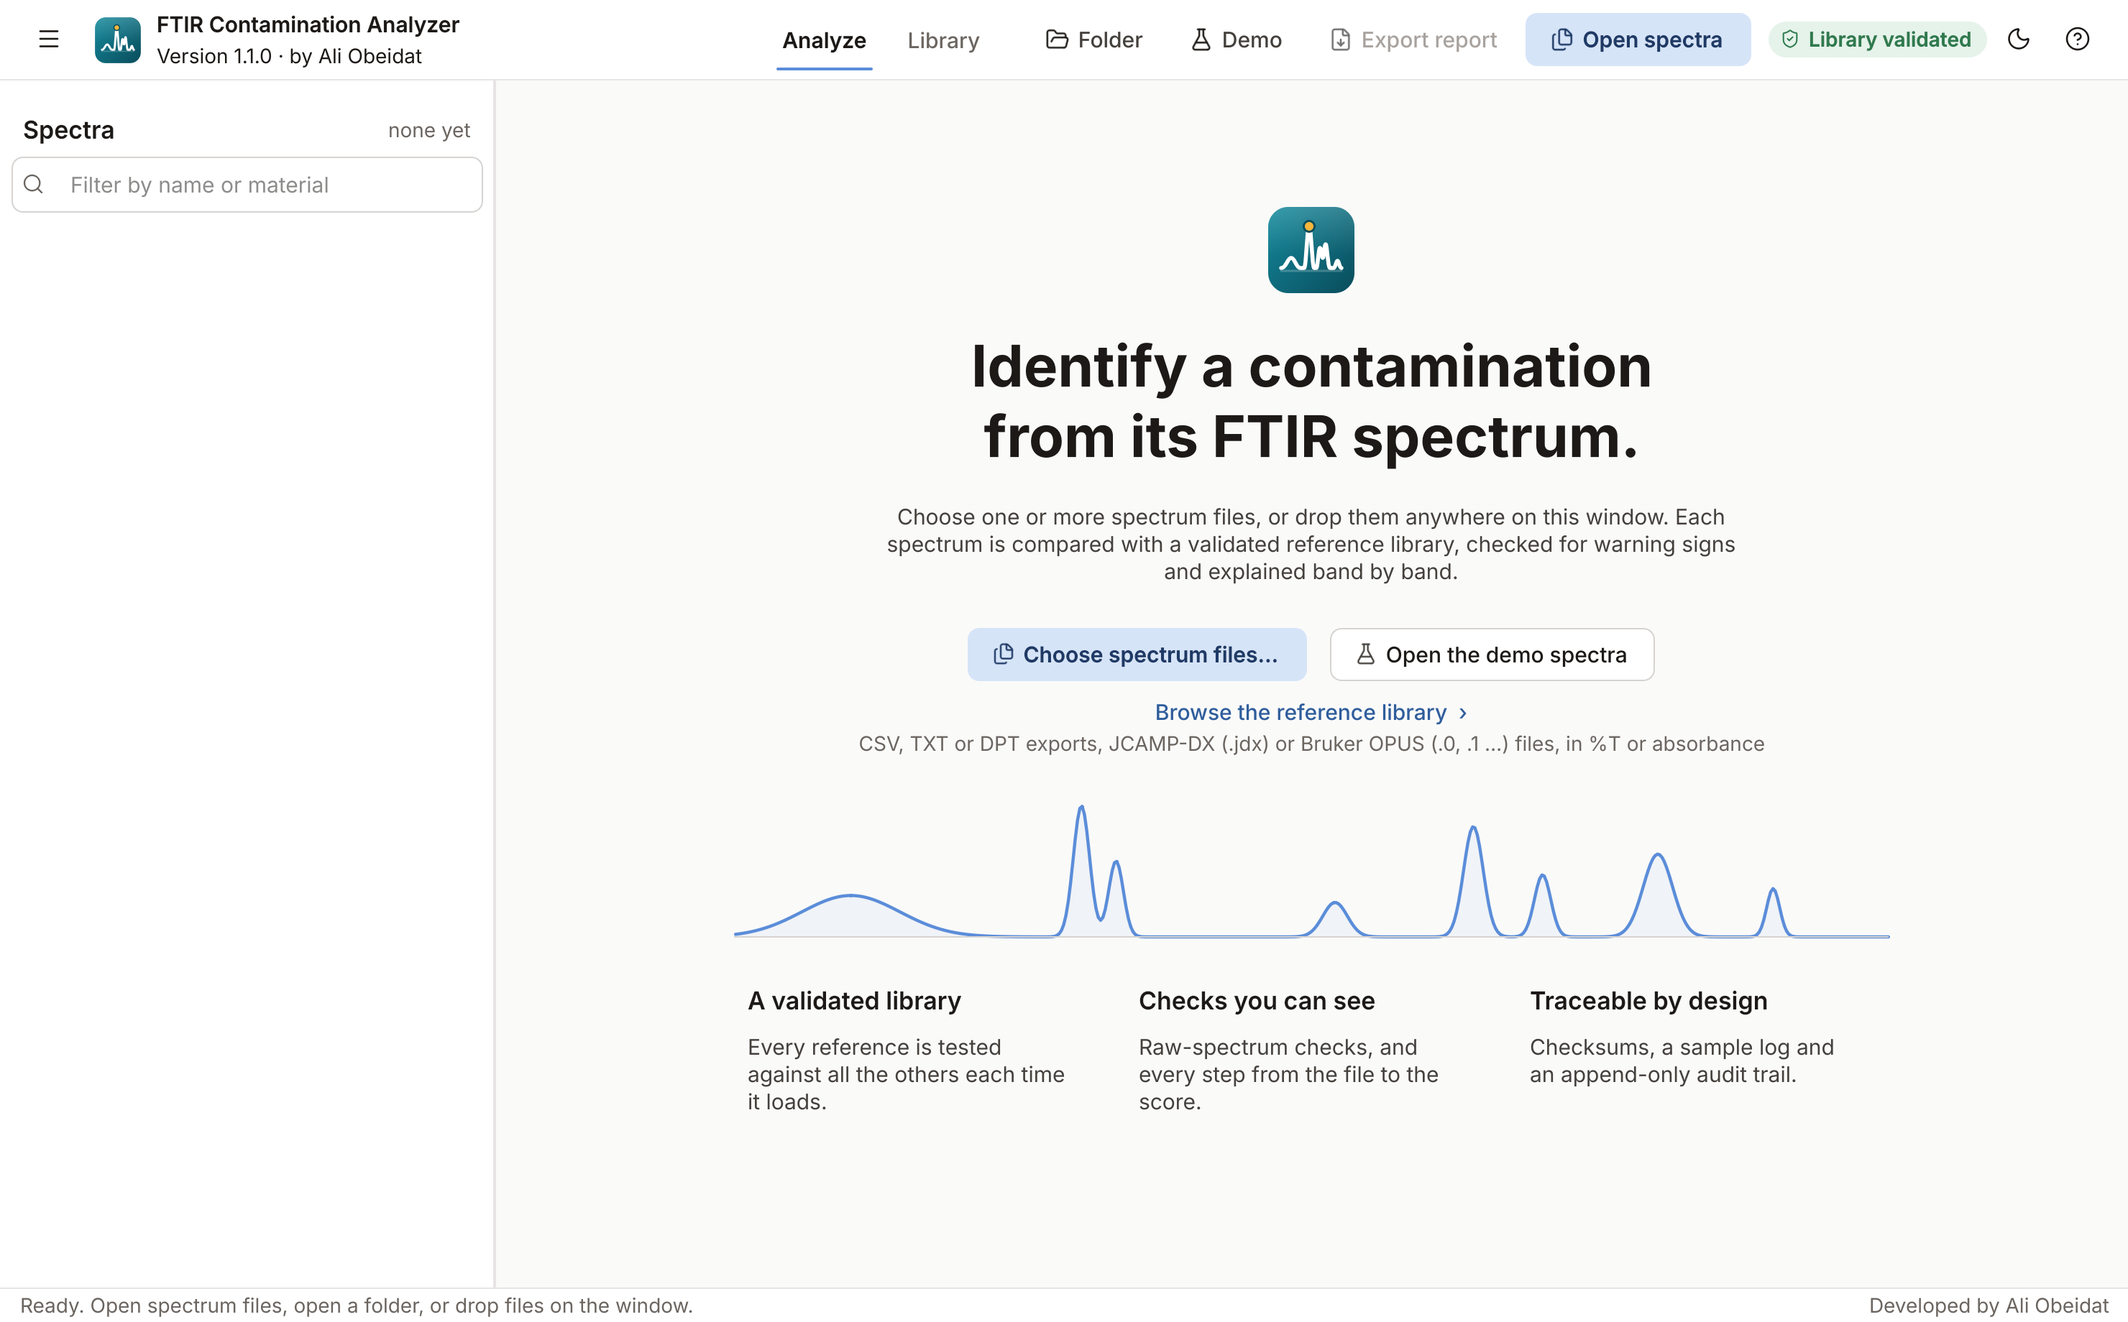
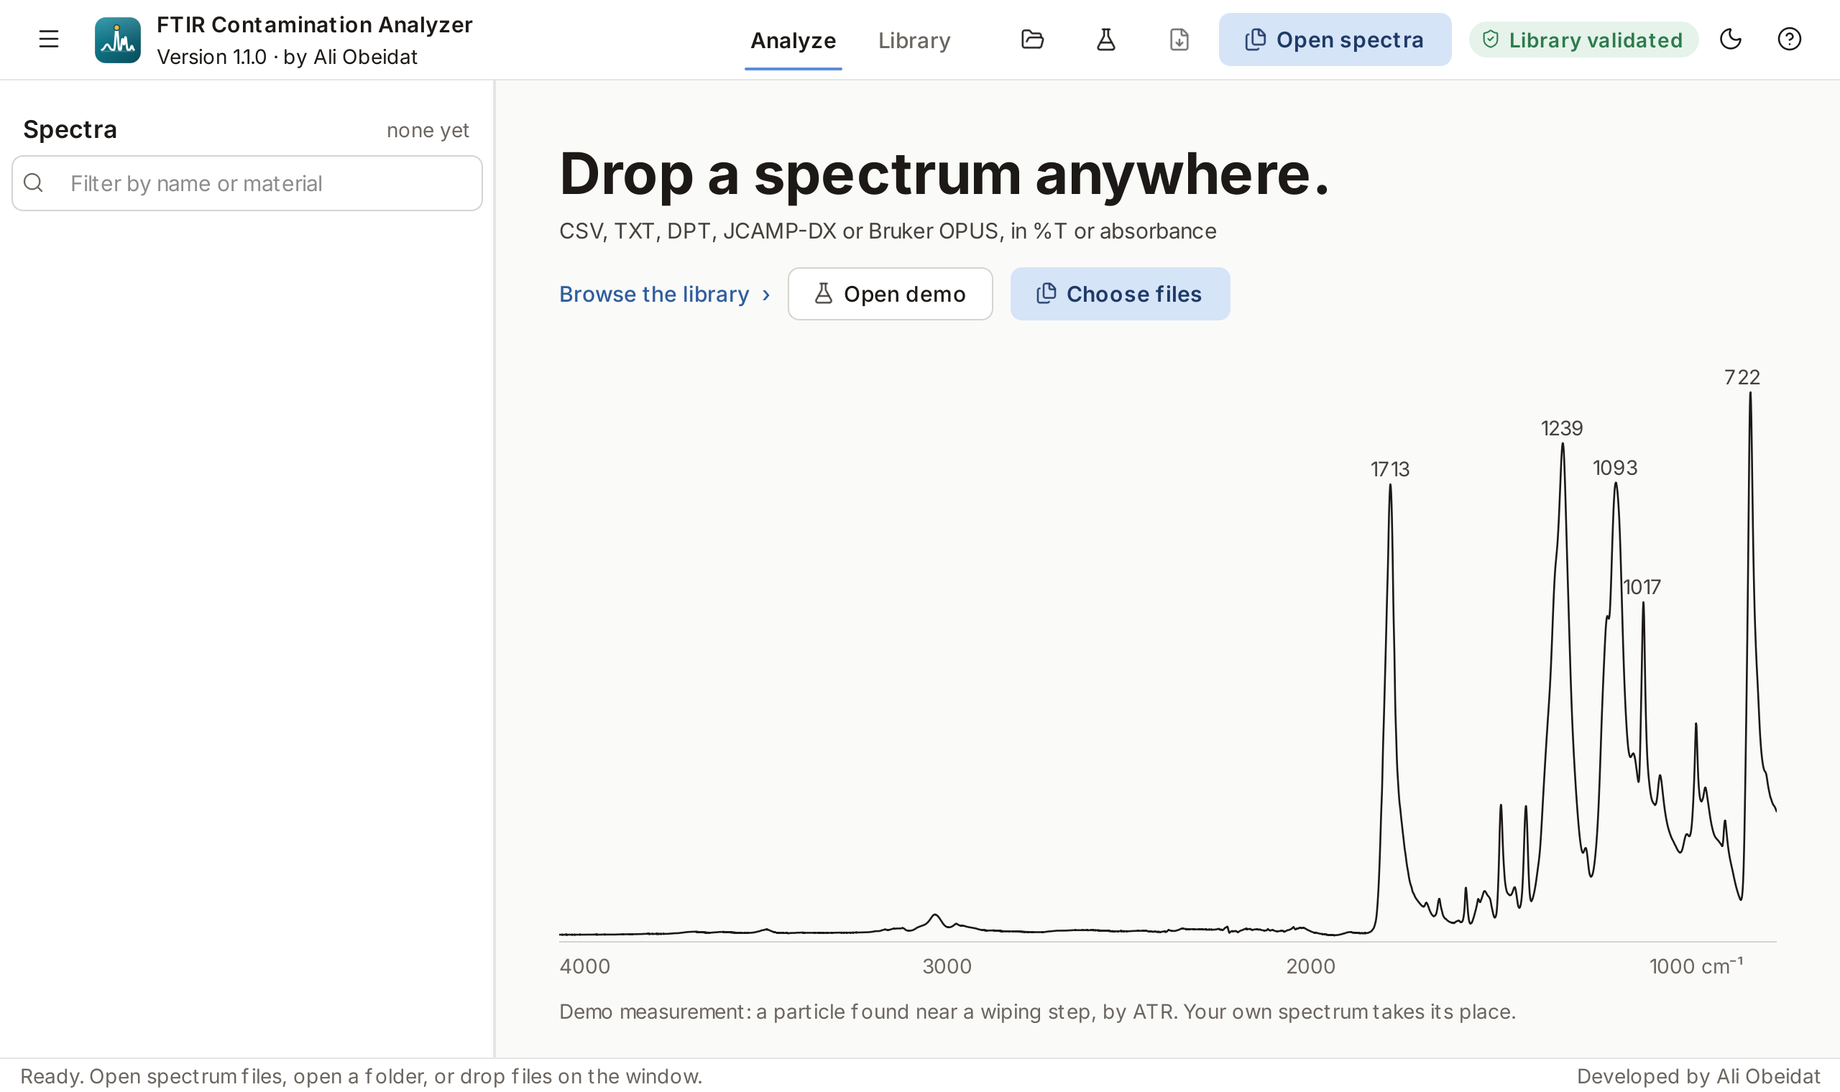
App: new home screen, a real demo spectrum with its bands read from the data

diff --git a/ftir_analyzer/widgets.py b/ftir_analyzer/widgets.py
@@ -17,7 +17,8 @@ Small, reusable pieces the main window is made of. Most of them paint themselves
     PlotPanel            the figure, with a Result / Analytical view switch, "compare with ...",
                          zoom / pan / reset / save, and live tracing: under the mouse, every
                          curve's value and the name of the band at that wavenumber
-    EmptyState           the welcome screen: what the program does and the ways to start
+    HomeSpectrum         a real demo spectrum, the picture on the home screen
+    EmptyState           the home screen: a real spectrum and the ways to start
     ModeDialog           asks how files were measured (ATR / transmission / don't know)
 
 Short names used in this file:
@@ -44,7 +45,7 @@ from PySide6.QtCore import (QAbstractListModel, QByteArray, QEasingCurve, QEvent
 from PySide6.QtGui import (QAction, QActionGroup, QColor, QCursor, QFont, QFontMetrics, QIcon, QImage,  # noqa: E402
                            QPainter, QPainterPath, QPen, QPixmap, QPolygonF)
 from PySide6.QtSvg import QSvgRenderer  # noqa: E402
-from PySide6.QtWidgets import (QApplication, QDialog, QFrame, QHBoxLayout, QLabel, QMenu, QPushButton, QScrollArea,  # noqa: E402
+from PySide6.QtWidgets import (QApplication, QBoxLayout, QDialog, QFrame, QHBoxLayout, QLabel, QMenu, QPushButton, QScrollArea,  # noqa: E402
                                QSizePolicy, QStyle, QStyledItemDelegate, QToolButton, QToolTip, QVBoxLayout,
                                QWidget)
 
@@ -996,167 +997,157 @@ class PlotPanel(Card):
             self.canvas.blit(self.figure.bbox)
 
 
-# ---------------------------------------------------------------------------- the welcome screen
-class SpectrumArt(QWidget):
-    """A decorative absorbance spectrum that draws itself from left to right: the welcome illustration."""
+# ------------------------------------------------------------------------------- the home screen
+class HomeSpectrum(QWidget):
+    """A real measurement on the home screen: the first demo spectrum, its tallest bands read from the data
+    itself, on a wavenumber axis. Drawn once into a picture; it never redraws while the page moves."""
+
+    FILE = config.EXAMPLES_DIR / "01_wipe_area_particle_ATR.csv"
+    TOP, BOTTOM = 26, 30
+    LABELS, APART = 5, 60                                              # bands named, and cm-1 between two of them
 
     def __init__(self, parent=None):
         super().__init__(parent)
-        self.progress = 1.0
-        self._animation = None
-        self.setMinimumHeight(128)
-        self.setSizePolicy(QSizePolicy.Expanding, QSizePolicy.Fixed)
+        self.setMinimumHeight(190)
+        self.setSizePolicy(QSizePolicy.Expanding, QSizePolicy.Expanding)
+        self._picture, self._picture_key = None, None
+        try:
+            rows = [line for line in self.FILE.read_text(encoding="utf-8").splitlines() if line[:1].isdigit()]
+            self.wn, self.a = np.loadtxt(rows, delimiter=",", unpack=True)
+        except (OSError, ValueError):                                  # no demo file: the page works without it
+            self.wn, self.a = np.array([]), np.array([])
 
-    def play(self):
-        """Draw the line again, from nothing (1.6 s, slowing down at the end)."""
-        stop(self._animation)
-        self._animation = animate(self, 0.0, 1.0, 1400, self._step, EASE_OUT)
+    def has_data(self):
+        return self.wn.size > 1
 
-    def _step(self, value):
-        self.progress = value
-        self.update()
+    def bands(self):
+        """The tallest bands of the spectrum, at least APART cm-1 from each other: [(wavenumber, height)]."""
+        peaks = np.flatnonzero((self.a[1:-1] > self.a[:-2]) & (self.a[1:-1] >= self.a[2:])) + 1
+        chosen = []
+        for i in peaks[np.argsort(self.a[peaks])[::-1]]:
+            if all(abs(self.wn[i] - w) >= self.APART for w, _ in chosen):
+                chosen.append((float(self.wn[i]), float(self.a[i])))
+            if len(chosen) == self.LABELS:
+                break
+        return chosen
+
+    def _key(self):
+        return self.width(), self.height(), self.devicePixelRatioF() or 1.0, Theme.t["name"]
+
+    def _x(self, w):
+        return (config.GRID_STOP - w) / (config.GRID_STOP - config.GRID_START) * self.width()
+
+    def _draw_picture(self):
+        t = Theme.t
+        dpr = self.devicePixelRatioF() or 1.0
+        width, height = self.width(), self.height()
+        picture = QPixmap(int(width * dpr), int(height * dpr))
+        picture.setDevicePixelRatio(dpr)
+        picture.fill(QColor(t["paper"]))
+        p = QPainter(picture)
+        p.setRenderHint(QPainter.Antialiasing)
+        base, low, high = height - self.BOTTOM, np.nanmin(self.a), np.nanmax(self.a)
+
+        def y(value):
+            return base - 4 - (value - low) / (high - low) * (base - 4 - self.TOP)
+
+        p.setPen(QPen(QColor(t["line_strong"]), 1))
+        p.drawLine(QPointF(0, base + 0.5), QPointF(width, base + 0.5))
+        p.setFont(font("small"))
+        p.setPen(QColor(t["muted"]))
+        for value in (4000, 3000, 2000, 1000):
+            p.drawText(QRectF(self._x(value), base + 8, 90, 18), Qt.AlignLeft | Qt.AlignVCenter,
+                       f"{value} cm⁻¹" if value == 1000 else str(value))
+        order = np.argsort(-self.wn)
+        p.setPen(QPen(QColor(t["ink"]), 1.3, Qt.SolidLine, Qt.RoundCap, Qt.RoundJoin))
+        p.drawPolyline(QPolygonF([QPointF(self._x(a), y(b)) for a, b in zip(self.wn[order], self.a[order])]))
+        p.setPen(QColor(t["ink_2"]))
+        taken = []
+        for value, tall in self.bands():
+            box = QRectF(self._x(value) - 24, y(tall) - 19, 48, 16)
+            if box.right() > width:                                    # never cut off at the edge
+                box.moveRight(width)
+            if not any(box.intersects(other) for other in taken):      # never two labels on each other
+                taken.append(box)
+                p.drawText(box, Qt.AlignCenter, f"{value:.0f}")
+        p.end()
+        self._picture, self._picture_key = picture, self._key()
+
+    def prepare(self):
+        """Draw the picture now, if it is missing or out of date."""
+        if self.has_data() and (self._picture is None or self._picture_key != self._key()):
+            self._draw_picture()
 
     def paintEvent(self, _):
-        t = Theme.t
-        p = QPainter(self)
-        p.setRenderHint(QPainter.Antialiasing)
-        w, h = self.width(), self.height()
-        x = np.linspace(0, 1, 500)
-        bands = [(0.10, 0.30, 0.060), (0.30, 0.95, 0.010), (0.33, 0.55, 0.009), (0.52, 0.25, 0.015),
-                 (0.64, 0.80, 0.012), (0.70, 0.45, 0.010), (0.80, 0.60, 0.018), (0.90, 0.35, 0.008)]
-        y = sum(a * np.exp(-((x - c) / s) ** 2) for c, a, s in bands)
-        n = max(2, int(len(x) * self.progress))                        # how much of the line is drawn so far
-        left, right, base, top = w * 0.12, w * 0.88, h - 18, 14
-        points = [QPointF(left + xi * (right - left), base - yi * (base - top)) for xi, yi in zip(x[:n], y[:n])]
-        path = QPainterPath(points[0])
-        for point in points[1:]:
-            path.lineTo(point)
-        fill = QPainterPath(path)
-        fill.lineTo(points[-1].x(), base)
-        fill.lineTo(left, base)
-        fill.closeSubpath()
-        wash = QColor(t["accent"])                                     # a faint, flat tint under the line
-        wash.setAlphaF(0.06)
-        p.fillPath(fill, wash)
-        p.setPen(QPen(QColor(t["accent"]), 2.2, Qt.SolidLine, Qt.RoundCap, Qt.RoundJoin))
-        p.drawPath(path)
-        if self.progress < 0.999:                                       # the pen's tip while it draws
-            glow = QColor(t["accent"])
-            glow.setAlphaF(0.25)
-            p.setPen(Qt.NoPen)
-            p.setBrush(glow)
-            p.drawEllipse(points[-1], 7, 7)
-            p.setBrush(QColor(t["accent"]))
-            p.drawEllipse(points[-1], 3.2, 3.2)
-        p.setPen(QPen(QColor(t["line_strong"]), 1))
-        p.drawLine(int(left), int(base), int(right), int(base))
-
-
-class FeatureTile(QWidget):
-    """One of the three short points on the welcome screen: a title and one sentence. Plain text
-    in a column, not a card with an icon on top: the words carry it, nothing decorates it."""
-
-    def __init__(self, title, text):
-        super().__init__()
-        heading = QLabel(title)
-        heading.setObjectName("SectionTitle")
-        body = QLabel(text)
-        body.setObjectName("Body2")
-        body.setWordWrap(True)
-        body.setFixedWidth(224)
-        self.blurb = body
-        layout = QVBoxLayout(self)
-        layout.setContentsMargins(0, 0, 0, 0)
-        layout.setSpacing(6)
-        layout.addWidget(heading)
-        layout.addWidget(body)
-        layout.addStretch()
-        self.setFixedWidth(240)
-
-    def retheme(self):
-        pass
+        self.prepare()
+        if self._picture is not None:
+            QPainter(self).drawPixmap(0, 0, self._picture)
 
 
 class EmptyState(QWidget):
-    """Shown before any spectrum is opened: what the program does, and the ways to start.
+    """The home screen, before any spectrum is opened: a real spectrum and the ways to start.
 
-    It fits any window: the page scrolls rather than squeezing anything; on a low window the
-    decorative spectrum is left out and the headline gets smaller; on a narrow one the three
-    tiles wrap onto more lines and the text narrows.
+    It fits any window: the actions move under the headline on a narrow one, and the spectrum takes the
+    height that is left (the page scrolls rather than squeezing it on a very low window).
     """
 
     choose_files = Signal()
     open_demo = Signal()
     open_library = Signal()
+    MARGIN, GAP = 44, 12
 
     def __init__(self, parent=None):
         super().__init__(parent)
         self.setObjectName("EmptyPage")
         self.page = QWidget()
         self.page.setObjectName("EmptyPage")
-        self.logo = QLabel()
-        self.title = QLabel("Identify a contamination\nfrom its FTIR spectrum.")
+        self.title = QLabel("Drop a spectrum anywhere.")
         self.title.setObjectName("HeroTitle")
-        self.title.setAlignment(Qt.AlignCenter)
-        self.text = QLabel("Choose one or more spectrum files, or drop them anywhere on this window. "
-                           "Each spectrum is compared with a validated reference library, checked for "
-                           "warning signs and explained band by band.")
-        self.text.setObjectName("Body2")
-        self.text.setWordWrap(True)
-        self.text.setAlignment(Qt.AlignCenter)
-        self.choose = QPushButton(" Choose spectrum files…")
-        self.choose.setObjectName("Primary")
-        self.demo = QPushButton(" Open the demo spectra")
-        self.library_link = QPushButton("Browse the reference library  ›")
-        self.library_link.setObjectName("Link")
-        for button in (self.choose, self.demo, self.library_link):
-            button.setCursor(Qt.PointingHandCursor)
-        self.formats = QLabel("CSV, TXT or DPT exports, JCAMP-DX (.jdx) or Bruker OPUS (.0, .1 …) files, "
-                              "in %T or absorbance")
-        self.formats.setObjectName("SectionHint")
-        self.formats.setAlignment(Qt.AlignCenter)
+        self.title.setWordWrap(True)
+        self.formats = QLabel("CSV, TXT, DPT, JCAMP-DX or Bruker OPUS, in %T or absorbance")
+        self.formats.setObjectName("Body2")
         self.formats.setWordWrap(True)
-        self.art = SpectrumArt()
+        self.choose = QPushButton(" Choose files")
+        self.choose.setObjectName("Primary")
+        self.demo = QPushButton(" Open demo")
+        self.library_link = QPushButton("Browse the library  ›")
+        self.library_link.setObjectName("Link")
         self.choose.clicked.connect(self.choose_files.emit)
         self.demo.clicked.connect(self.open_demo.emit)
         self.library_link.clicked.connect(self.open_library.emit)
-        self.tiles = [
-            FeatureTile("A validated library",
-                        "Every reference is tested against all the others each time it loads."),
-            FeatureTile("Checks you can see",
-                        "Raw-spectrum checks, and every step from the file to the score."),
-            FeatureTile("Traceable by design",
-                        "Checksums, a sample log and an append-only audit trail."),
-        ]
+        self.art = HomeSpectrum()
+        self.caption = QLabel("Demo measurement: a particle found near a wiping step, by ATR. "
+                              "Your own spectrum takes its place.")
+        self.caption.setObjectName("SectionHint")
+        self.caption.setWordWrap(True)
+        self.art.setVisible(self.art.has_data())
+        self.caption.setVisible(self.art.has_data())
 
+        words = QVBoxLayout()
+        words.setSpacing(6)
+        words.addWidget(self.title)
+        words.addWidget(self.formats)
         self.buttons = QWidget()
-        buttons = FlowLayout(self.buttons, spacing=16, align="center")
-        buttons.addWidget(self.choose)
-        buttons.addWidget(self.demo)
-        self.tile_row = QWidget()
-        tiles = FlowLayout(self.tile_row, spacing=32, row_spacing=24, align="center", even=True)
-        for tile in self.tiles:
-            tiles.addWidget(tile)
+        buttons = FlowLayout(self.buttons, spacing=self.GAP, align="left")
+        for button in (self.library_link, self.demo, self.choose):
+            button.setCursor(Qt.PointingHandCursor)
+            buttons.addWidget(button)
+        self.head = QWidget()
+        self.head_layout = QBoxLayout(QBoxLayout.LeftToRight, self.head)
+        self.head_layout.setContentsMargins(0, 0, 0, 0)
+        self.head_layout.setSpacing(16)
+        self.head_layout.addLayout(words, 1)
+        self.head_layout.addWidget(self.buttons)
         layout = QVBoxLayout(self.page)
-        layout.setContentsMargins(40, 32, 40, 32)
+        layout.setContentsMargins(self.MARGIN, 40, self.MARGIN, 24)
         layout.setSpacing(0)
-        layout.addStretch(2)
-        layout.addWidget(self.logo, 0, Qt.AlignCenter)
+        layout.addWidget(self.head)
         layout.addSpacing(24)
-        layout.addWidget(self.title)
-        layout.addSpacing(16)
-        layout.addWidget(self.text, 0, Qt.AlignCenter)
-        layout.addSpacing(24)
-        layout.addWidget(self.buttons)
-        layout.addSpacing(8)
-        layout.addWidget(self.library_link, 0, Qt.AlignCenter)
-        layout.addWidget(self.formats)
-        self.art_gap = layout.count()
-        layout.addSpacing(16)
-        layout.addWidget(self.art)
-        layout.addSpacing(16)
-        layout.addWidget(self.tile_row)
-        layout.addStretch(3)
+        layout.addWidget(self.art, 1)
+        layout.addSpacing(10)
+        layout.addWidget(self.caption)
+        if not self.art.has_data():
+            layout.addStretch(1)
 
         self.scroll = SmoothScrollArea()
         self.scroll.setHorizontalScrollBarPolicy(Qt.ScrollBarAlwaysOff)
@@ -1169,59 +1160,27 @@ class EmptyState(QWidget):
     # ---------------------------------------------------------- fitting the window
     def resizeEvent(self, event):
         super().resizeEvent(event)
-        self._fit()
-
-    def _fit(self):
-        """Narrow the text to the width; then, step by step, leave out what does not fit the height:
-        first the decorative spectrum, then the logo (and the title gets smaller)."""
-        self.text.setFixedWidth(max(280, min(600, self.width() - 96)))
-        self._set_heights()
-        width, height = max(1, self.width()), self.height()
-        for art, roomy in ((True, True), (False, True), (False, False)):
-            self.art.setVisible(art)
-            self.logo.setVisible(roomy)
-            if self.title.property("compact") != (not roomy):
-                self.title.setProperty("compact", not roomy)
-                self.title.style().unpolish(self.title)
-                self.title.style().polish(self.title)
-            layout = self.page.layout()
-            layout.invalidate()
-            if layout.totalHeightForWidth(width) <= height:
-                break
-
-    def _set_heights(self):
-        for label in [self.text] + [tile.blurb for tile in self.tiles]:  # wrapped text: the height its lines need
-            label.ensurePolished()
-            label.setMinimumHeight(label.heightForWidth(min(label.maximumWidth(), 600)) + 4)
+        self.title.ensurePolished()
+        inside = self.width() - 2 * self.MARGIN
+        room = sum(b.sizeHint().width() for b in (self.library_link, self.demo, self.choose)) + 2 * self.GAP + 2
+        narrow = self.title.fontMetrics().horizontalAdvance(self.title.text()) + 16 + room > inside
+        self.head_layout.setDirection(QBoxLayout.TopToBottom if narrow else QBoxLayout.LeftToRight)
+        self.buttons.setFixedWidth(inside if narrow else room)
 
     def play(self):
-        """The entrance: the parts rise in one after the other, then the spectrum draws itself."""
+        """The entrance: the headline rises in, then the spectrum and its caption. The line is never drawn in."""
         if Motion.reduced or not self.isVisible():
             return
-        self.art.progress = 0.0
-        parts = [self.logo, self.title, self.text, self.buttons, self.library_link, self.art,
-                 self.tile_row]
-        bands = []
-        for widget in parts:
-            if not widget.isVisible():
-                continue
-            rect = QRect(widget.mapTo(self, QPoint(0, 0)), widget.size())
-            if widget is self.library_link:
-                formats = self.formats
-                rect = rect.united(QRect(formats.mapTo(self, QPoint(0, 0)), formats.size()))
-            bands.append(rect)
-        rise_in(self, blank(self, Theme.t["paper"]), snapshot(self), bands, dy=30, duration=1000,
-                on_done=self.art.play)
+        self.art.prepare()
+        bands = [QRect(widget.mapTo(self, QPoint(0, 0)), widget.size())
+                 for widget in (self.head, self.art, self.caption) if widget.isVisible()]
+        rise_in(self, blank(self, Theme.t["paper"]), snapshot(self), bands, dy=30, duration=1000)
 
     def retheme(self):
-        self._set_heights()
         make_opaque(self.page, Theme.t["paper"])
         make_opaque(self.scroll.viewport(), Theme.t["paper"])
-        self.logo.setPixmap(logo_pixmap(64, self.devicePixelRatioF() or 2.0))
         self.choose.setIcon(icon("files", Theme.t["on_primary"]))
         self.demo.setIcon(icon("flask-conical", Theme.t["ink_2"]))
-        for tile in self.tiles:
-            tile.retheme()
         self.art.update()
 
 

diff --git a/tests/test_layout.py b/tests/test_layout.py
@@ -181,6 +181,10 @@ def test_the_welcome_page_fits_a_laptop_window(tmp_path):
     page = win.empty
     assert not page.scroll.verticalScrollBar().isVisible()                         # no scrolling needed
     assert problems(win) == []
-    tiles = [QRect(t.mapTo(page, QPoint(0, 0)), t.size()) for t in page.tiles]
-    assert len({t.top() for t in tiles}) == 1 and len({t.height() for t in tiles}) == 1   # one tidy row
+    assert page.art.isVisible() and page.art.height() >= page.art.minimumHeight()  # the real spectrum fills the page
+    assert [round(w) for w, _ in page.art.bands()] == [722, 1239, 1093, 1713, 1017]  # read from the data itself
+    win.resize(700, 720)                                                           # narrow: actions under the headline
+    settle()
+    assert page.buttons.mapTo(page, QPoint(0, 0)).y() > page.title.mapTo(page, QPoint(0, 0)).y()
+    assert problems(win) == []
     win.close()
